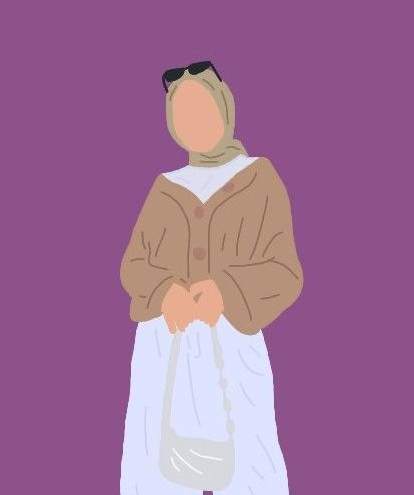
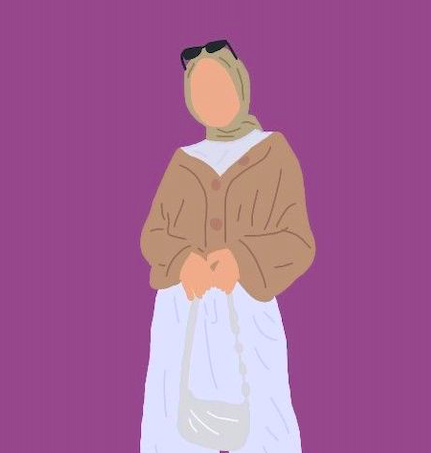
started the projects section

diff --git a/index.html b/index.html
@@ -38,7 +38,7 @@
     </nav>
 
     <section id="profile">
-      <div class="section__pic-container">
+      <div class="profile__pic-container">
         <img src="./assets/avatar.png" alt="Nasrin Sultana's avatar" />
       </div>
       <div class="section__text">
@@ -56,6 +56,7 @@
           <button class="btn btn-color-1" onclick="location.href='./#contact'">
             Contact Info
           </button>
+  
           <div id="socials-container">
             <img
               src="./assets/linkedin.png"
@@ -84,7 +85,7 @@
           class="about-pic"
           />
      </div>
-     <div class="about-details-conatiner">
+     <div class="about-details-container">
       <div class="about-containers">
         <div class="details-container">
           <img 
@@ -108,7 +109,7 @@
       <div class="text-container">
         <p>Before moving into tech, I spent five years in the education sector, where I learned to adopt an agile approach, solve problems creatively, and collaborate with diverse teams—skills that now drive my work in coding. Teaching taught me how to break down complex ideas and adapt quickly, and I bring that same adaptability to every coding challenge I face.</p>
         <br/>
-        <p>When I first discovered what developers do, it sparked the same “Aha!” moment I often saw in my students when they overcame a challenge. That moment reshaped my career, and now, every line of code I write is another chance to learn, collaborate, and grow.</p>
+        <p>When I first discovered what developers do, it sparked the same “Aha!” moment I often saw in my students when they overcame a challenge. That moment reshaped my career, and now, every line of code I write is another chance to learn.</p>
       </div>
      </div> 
       </div>
@@ -120,10 +121,12 @@
     </section>
     <section id="experience">
       <p class="section__text__p1">Explore My</p>
-      <h1 class="'title">Experience</h1>
+      <h1 class="experience-title">Experience</h1>
       <div class="experience-details-container">
         <div class="about-containers">
-          <div class="details-containers">
+          <!-- <div class="details-container"> -->
+            </div>
+            <div class="details-container">
             <h2 class="experience-sub-title">Fullstack Skills</h2>
             <div class="article-container">
               <article>
@@ -182,7 +185,7 @@
               </article>
             </div>
           </div>
-          <div class="details-containers">
+          <div class="details-container">
             <h2 class="experience-sub-title">Tools & Practices</h2>
             <div class="article-container">
               <article>
@@ -248,6 +251,18 @@
       class="icon arrow"
       onclick="location.href='./#projects'"
       />
+    </section>
+    <section id="projects">
+      <p class="section__text__p1">Browse My Recent</p>
+      <h1 class="title">Projects</h1>
+      <div class="experience-details-container">
+        <div class="experience-details-color-container">
+          <div class="article-container">
+            <img src=""
+            alt="project 1" >
+          </div>
+        </div>
+      </div>
     </section>
     <script src="script.js"></script>
   </body>

diff --git a/style.css b/style.css
@@ -167,12 +167,12 @@ section {
   height: 80vh;
 }
 
-/* .section__pic-container {
+.section__pic-container {
   display: flex;
   height: 400px;
-  width: 400px;
+  width: 450px;
   margin: auto 0;
-} */
+}
 
 .section__text {
   align-self: center;
@@ -216,6 +216,8 @@ section {
 .btn-container {
   display: flex;
   justify-content: center;
+  /* flex-direction: row; */
+  align-items: center;
   gap: 1rem;
 }
 
@@ -312,4 +314,44 @@ section {
 
 #experience {
   position: relative;
+}
+
+.experience-sub-title {
+  color: rgb(85, 85, 85);
+  font-weight: 600;
+  font-size: 1.75rem;
+  margin-bottom: 2rem;
+}
+
+.experience-details-container {
+  display: flex;
+  justify-content: flex-start;
+  flex-direction: row;
+  gap: 2.5rem;
+}
+
+.article-container {
+  display: flex;
+  text-align: initial;
+  flex-wrap: wrap;
+  flex-direction: row;
+  gap: 5rem;
+  justify-content: space-around;
+}
+
+article {
+  display: flex;
+  width: 10rem;
+  justify-content: flex-start;
+  gap: 0.5rem;
+}
+
+article.icon {
+  cursor: default;
+}
+
+.experience-title {
+  margin-bottom: 2rem;
+  font-size: 3rem;
+  text-align: center;
 }
